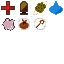
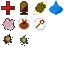
Animate the spark of a shot

Changed region(s): [[0.0312, 0.5312, 0.2188, 0.7188], [0.3125, 0.5312, 0.4688, 0.7188]]

diff --git a/client.c b/client.c
@@ -545,8 +545,8 @@ main (int argc, char *argv[])
 			  {0, 0, 16, 16}, {0, 0, 16, 16}, {0, 0, 16, 16},
 			  {0, 0, 16, 16}},
     character_box = RECT_BY_GRID (6, 0, 1, 1),
-    character_dest = {0, 0, 16, 21}, pers, shot_src = {40, 18, 16, 16},
-    sh = {0, 0, GRID_CELL_W, GRID_CELL_H}, *zombierects,
+    character_dest = {0, 0, 16, 21}, pers, shot1_src = {0, 32, 16, 16},
+    shot2_src = {16, 32, 16, 16}, sh = {0, 0, GRID_CELL_W, GRID_CELL_H}, *zombierects,
     zombie_srcs [] = {{0, 6, 16, 21}, {16, 6, 16, 21}, {48, 6, 16, 21},
 		      {0, 69, 16, 21}, {16, 69, 16, 21}, {48, 69, 16, 21},
 		      {0, 38, 16, 21}, {16, 38, 16, 21}, {48, 38, 16, 21},
@@ -571,8 +571,8 @@ main (int argc, char *argv[])
   SDL_Event event;
 
   SDL_Texture *overworldtxtr, *overworld2txtr, *overworld3txtr, *interiorstxtr,
-    *charactertxtr, *zombietxtr, *blobtxtr, *npctxtr, *effectstxtr, *texttxtr,
-    *bagtxtr, *objectstxtr;
+    *charactertxtr, *zombietxtr, *blobtxtr, *npctxtr, *texttxtr, *bagtxtr,
+    *objectstxtr;
   SDL_Surface *iconsurf, *textsurf;
   TTF_Font *hudfont, *textfont;
   char textbox [TEXTLINESIZE*MAXTEXTLINES+1], hudtext [20];
@@ -861,7 +861,6 @@ main (int argc, char *argv[])
   zombietxtr = load_texture ("NPC_test.png", rend);
   blobtxtr = load_texture ("jumblysprite.png", rend);
   npctxtr = load_texture ("log.png", rend);
-  effectstxtr = load_texture ("effects.png", rend);
   bagtxtr = load_texture ("bag.png", rend);
   objectstxtr = load_texture ("objects.png", rend);
 
@@ -1565,7 +1564,8 @@ main (int argc, char *argv[])
 	      sh.y = (-camera_src.y + area->walkable.y + ntohl (vis.y))*scaling;
 	      sh.w = GRID_CELL_W*scaling;
 	      sh.h = GRID_CELL_H*scaling;
-	      SDL_RenderCopy (rend, effectstxtr, &shot_src, &sh);
+	      SDL_RenderCopy (rend, objectstxtr, ntohl (vis.duration) > 5 ? &shot1_src
+			      : &shot2_src, &sh);
 	    }
 
 	  if (state->args.server_state.textbox_lines_num)

diff --git a/server.c b/server.c
@@ -1323,6 +1323,7 @@ send_server_state (int sockfd, uint32_t frame_counter, int id, struct player *pl
 	  && is_visible_by_player (pls [id].agent->place, ss->target))
 	{
 	  vis.type = htonl (VISIBLE_SHOT);
+	  vis.duration = htonl (ss->duration);
 	  vis.x = htonl (ss->target.x);
 	  vis.y = htonl (ss->target.y);
 	  vis.w = htonl (ss->target.w);

diff --git a/zombieland.h b/zombieland.h
@@ -139,6 +139,7 @@ visible
 {
   uint32_t type;
   uint32_t subtype;
+  uint32_t duration;
   uint32_t x, y, w, h;
   enum facing facing;
   int32_t speed_x, speed_y;
